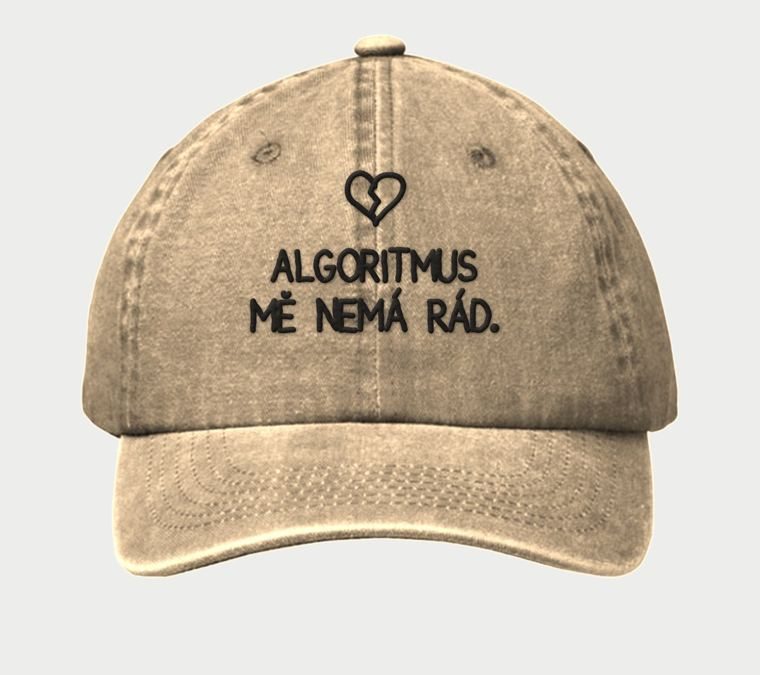
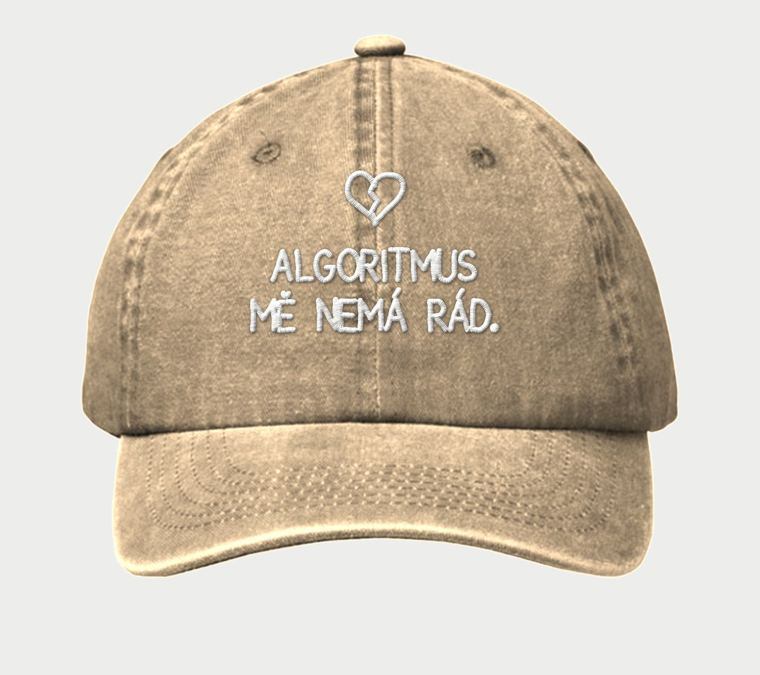
Bílá nit na všech čepicích
Claude-Session: https://claude.ai/code/session_01VzCPbEziAgjru4QbrXug3n

Changed region(s): [[0.3026, 0.2489, 0.6658, 0.4978]]

diff --git a/index.html b/index.html
@@ -290,7 +290,7 @@ footer .hand{font-size:30px;color:var(--ink)}
         <h3>Výšivka</h3>
         <ul>
           <li>Ručně psaná hláška převedená do výšivky</li>
-          <li>Tmavé čepice mají bílou nit, světlé černou</li>
+          <li>Vyšívá se vždy bílou nití</li>
         </ul>
         <h3 style="margin-top:18px">Péče</h3>
         <ul class="care">
@@ -430,12 +430,12 @@ footer .hand{font-size:30px;color:var(--ink)}
     ["Lahvově zelená","#4a5f54",null,"#f4efe2"],
     ["Šedozelená","#839192",null,"#f4efe2"],
     ["Královská modrá","#388ad7",null,"#f4efe2"],
-    ["Písková","#b79e7e",null,"#1b1b1b"],
-    ["Přírodní","#e0d6bd",null,"#1b1b1b"],
-    ["Hořčicová","#e6b62f",null,"#1b1b1b"],
+    ["Písková","#b79e7e",null,"#f4efe2"],
+    ["Přírodní","#e0d6bd",null,"#f4efe2"],
+    ["Hořčicová","#e6b62f",null,"#f4efe2"],
     ["Lososová","#ed926b",null,"#f4efe2"],
     ["Červená","#b53e40",null,"#f4efe2"],
-    ["Růžová","#d792a5",null,"#1b1b1b"]
+    ["Růžová","#d792a5",null,"#f4efe2"]
   ];
   // Hotové náhledy výšivek: MOCKUPS[index hlášky][index barvy]
   const MOCKUPS = {"0": {"0": "img/q0-c0.jpg", "1": "img/q0-c1.jpg", "10": "img/q0-c10.jpg", "2": "img/q0-c2.jpg", "3": "img/q0-c3.jpg", "4": "img/q0-c4.jpg", "5": "img/q0-c5.jpg", "6": "img/q0-c6.jpg", "7": "img/q0-c7.jpg", "8": "img/q0-c8.jpg", "9": "img/q0-c9.jpg"}, "1": {"0": "img/q1-c0.jpg", "1": "img/q1-c1.jpg", "10": "img/q1-c10.jpg", "2": "img/q1-c2.jpg", "3": "img/q1-c3.jpg", "4": "img/q1-c4.jpg", "5": "img/q1-c5.jpg", "6": "img/q1-c6.jpg", "7": "img/q1-c7.jpg", "8": "img/q1-c8.jpg", "9": "img/q1-c9.jpg"}, "2": {"0": "img/q2-c0.jpg", "1": "img/q2-c1.jpg", "10": "img/q2-c10.jpg", "2": "img/q2-c2.jpg", "3": "img/q2-c3.jpg", "4": "img/q2-c4.jpg", "5": "img/q2-c5.jpg", "6": "img/q2-c6.jpg", "7": "img/q2-c7.jpg", "8": "img/q2-c8.jpg", "9": "img/q2-c9.jpg"}, "3": {"0": "img/q3-c0.jpg", "1": "img/q3-c1.jpg", "10": "img/q3-c10.jpg", "2": "img/q3-c2.jpg", "3": "img/q3-c3.jpg", "4": "img/q3-c4.jpg", "5": "img/q3-c5.jpg", "6": "img/q3-c6.jpg", "7": "img/q3-c7.jpg", "8": "img/q3-c8.jpg", "9": "img/q3-c9.jpg"}, "4": {"0": "img/q4-c0.jpg", "1": "img/q4-c1.jpg", "10": "img/q4-c10.jpg", "2": "img/q4-c2.jpg", "3": "img/q4-c3.jpg", "4": "img/q4-c4.jpg", "5": "img/q4-c5.jpg", "6": "img/q4-c6.jpg", "7": "img/q4-c7.jpg", "8": "img/q4-c8.jpg", "9": "img/q4-c9.jpg"}, "5": {"0": "img/q5-c0.jpg", "1": "img/q5-c1.jpg", "10": "img/q5-c10.jpg", "2": "img/q5-c2.jpg", "3": "img/q5-c3.jpg", "4": "img/q5-c4.jpg", "5": "img/q5-c5.jpg", "6": "img/q5-c6.jpg", "7": "img/q5-c7.jpg", "8": "img/q5-c8.jpg", "9": "img/q5-c9.jpg"}, "6": {"0": "img/q6-c0.jpg", "1": "img/q6-c1.jpg", "10": "img/q6-c10.jpg", "2": "img/q6-c2.jpg", "3": "img/q6-c3.jpg", "4": "img/q6-c4.jpg", "5": "img/q6-c5.jpg", "6": "img/q6-c6.jpg", "7": "img/q6-c7.jpg", "8": "img/q6-c8.jpg", "9": "img/q6-c9.jpg"}, "7": {"0": "img/q7-c0.jpg", "1": "img/q7-c1.jpg", "10": "img/q7-c10.jpg", "2": "img/q7-c2.jpg", "3": "img/q7-c3.jpg", "4": "img/q7-c4.jpg", "5": "img/q7-c5.jpg", "6": "img/q7-c6.jpg", "7": "img/q7-c7.jpg", "8": "img/q7-c8.jpg", "9": "img/q7-c9.jpg"}};
